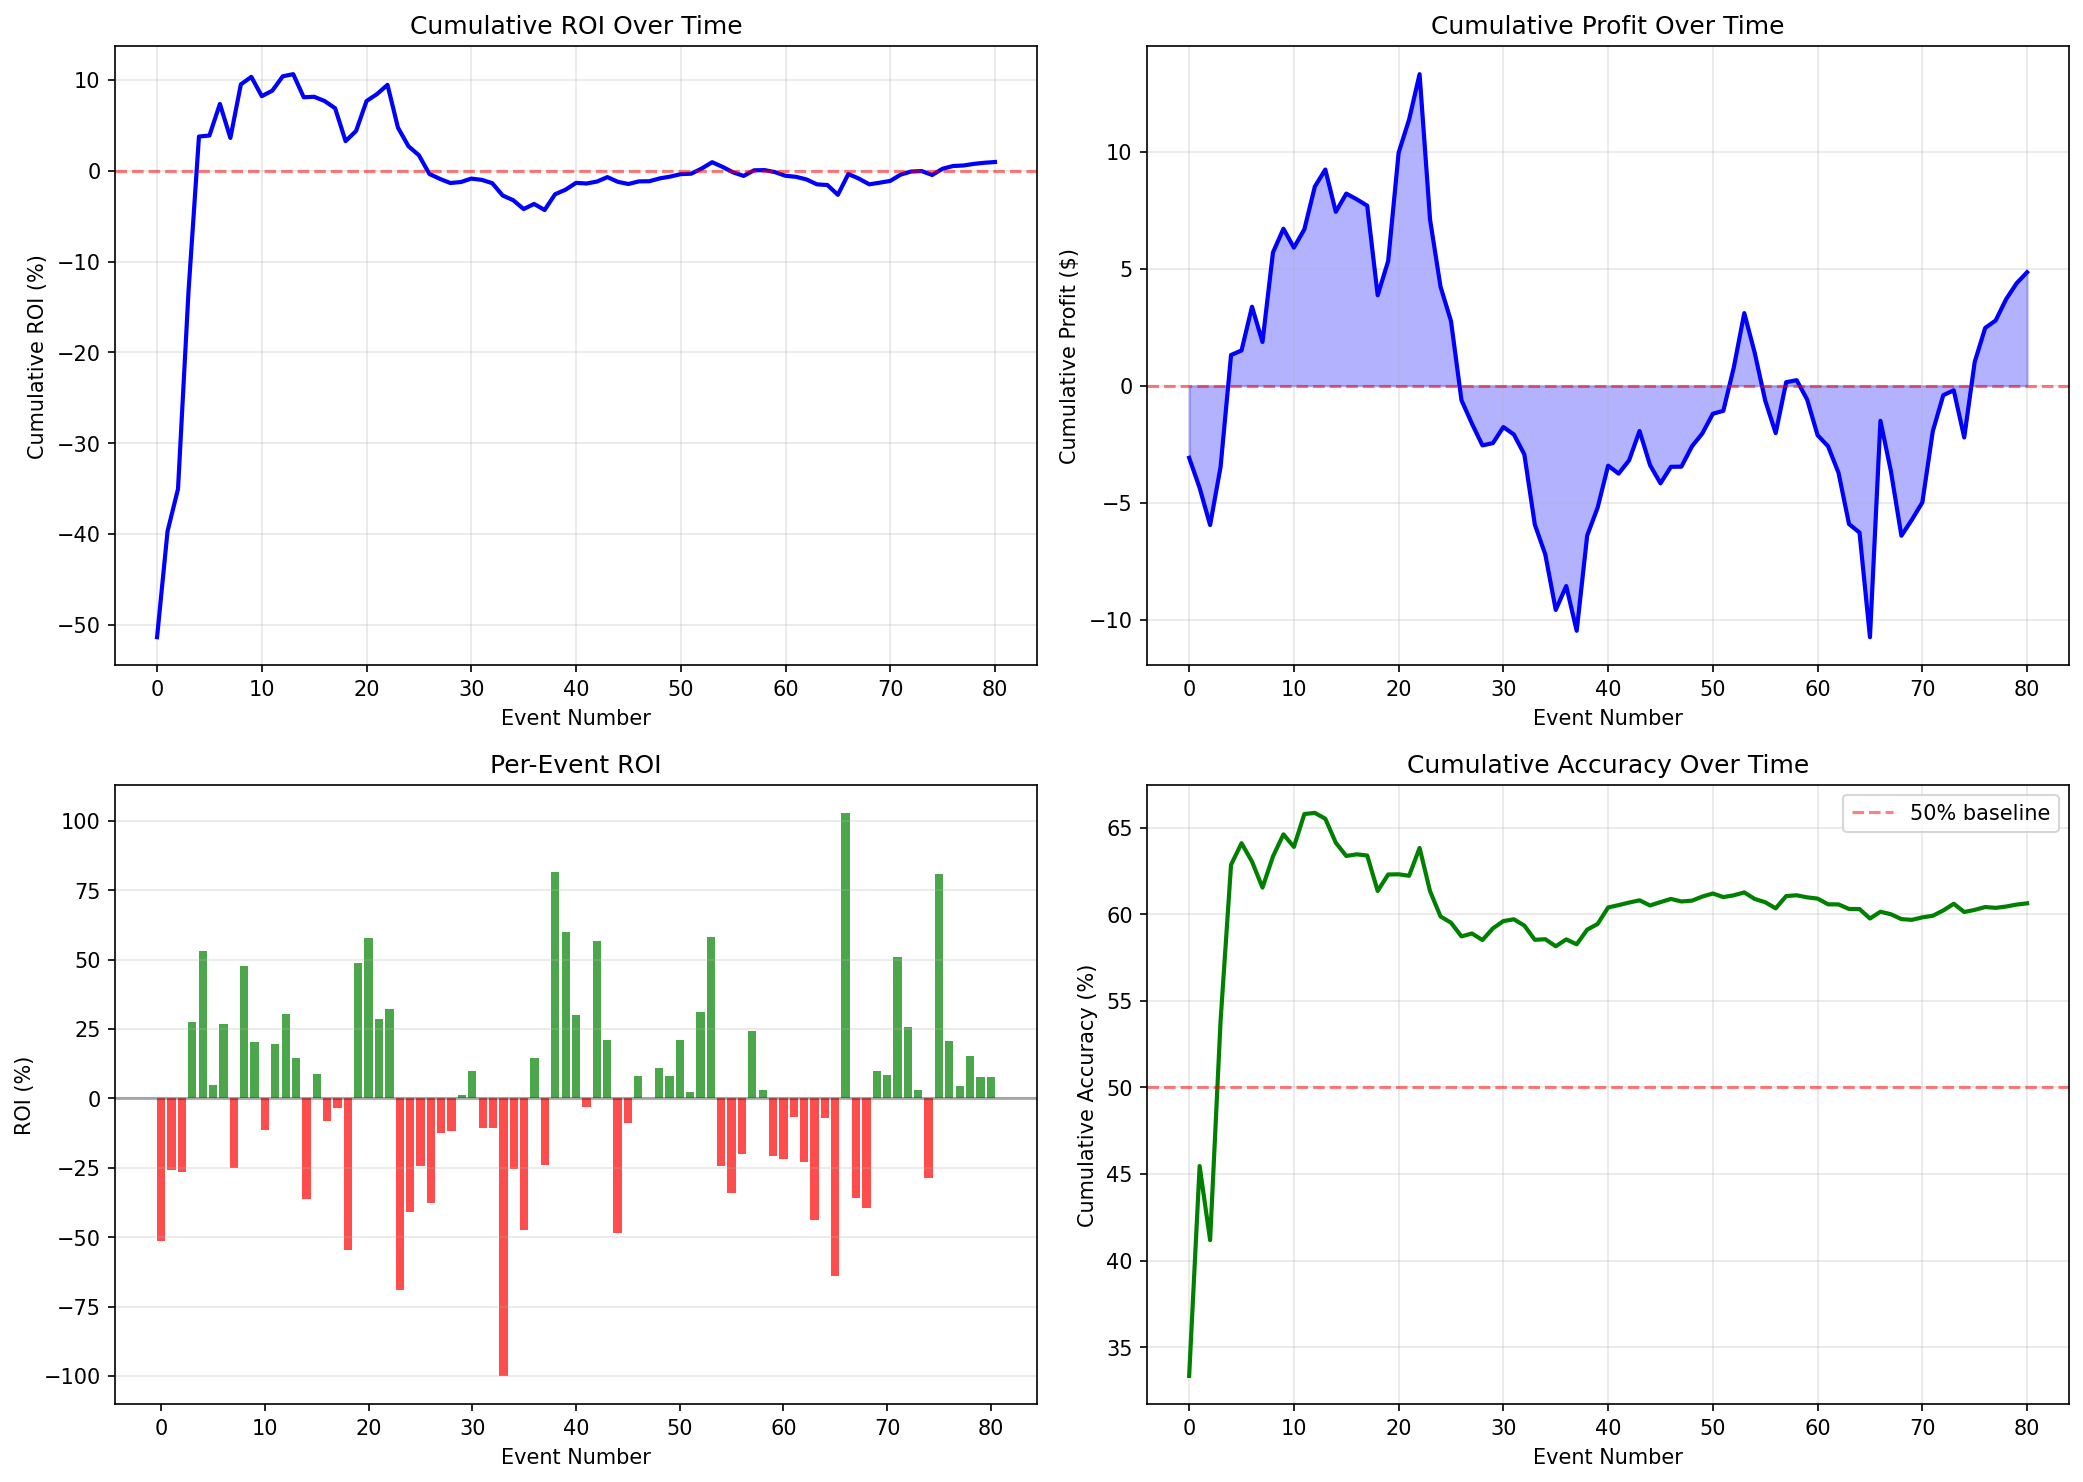
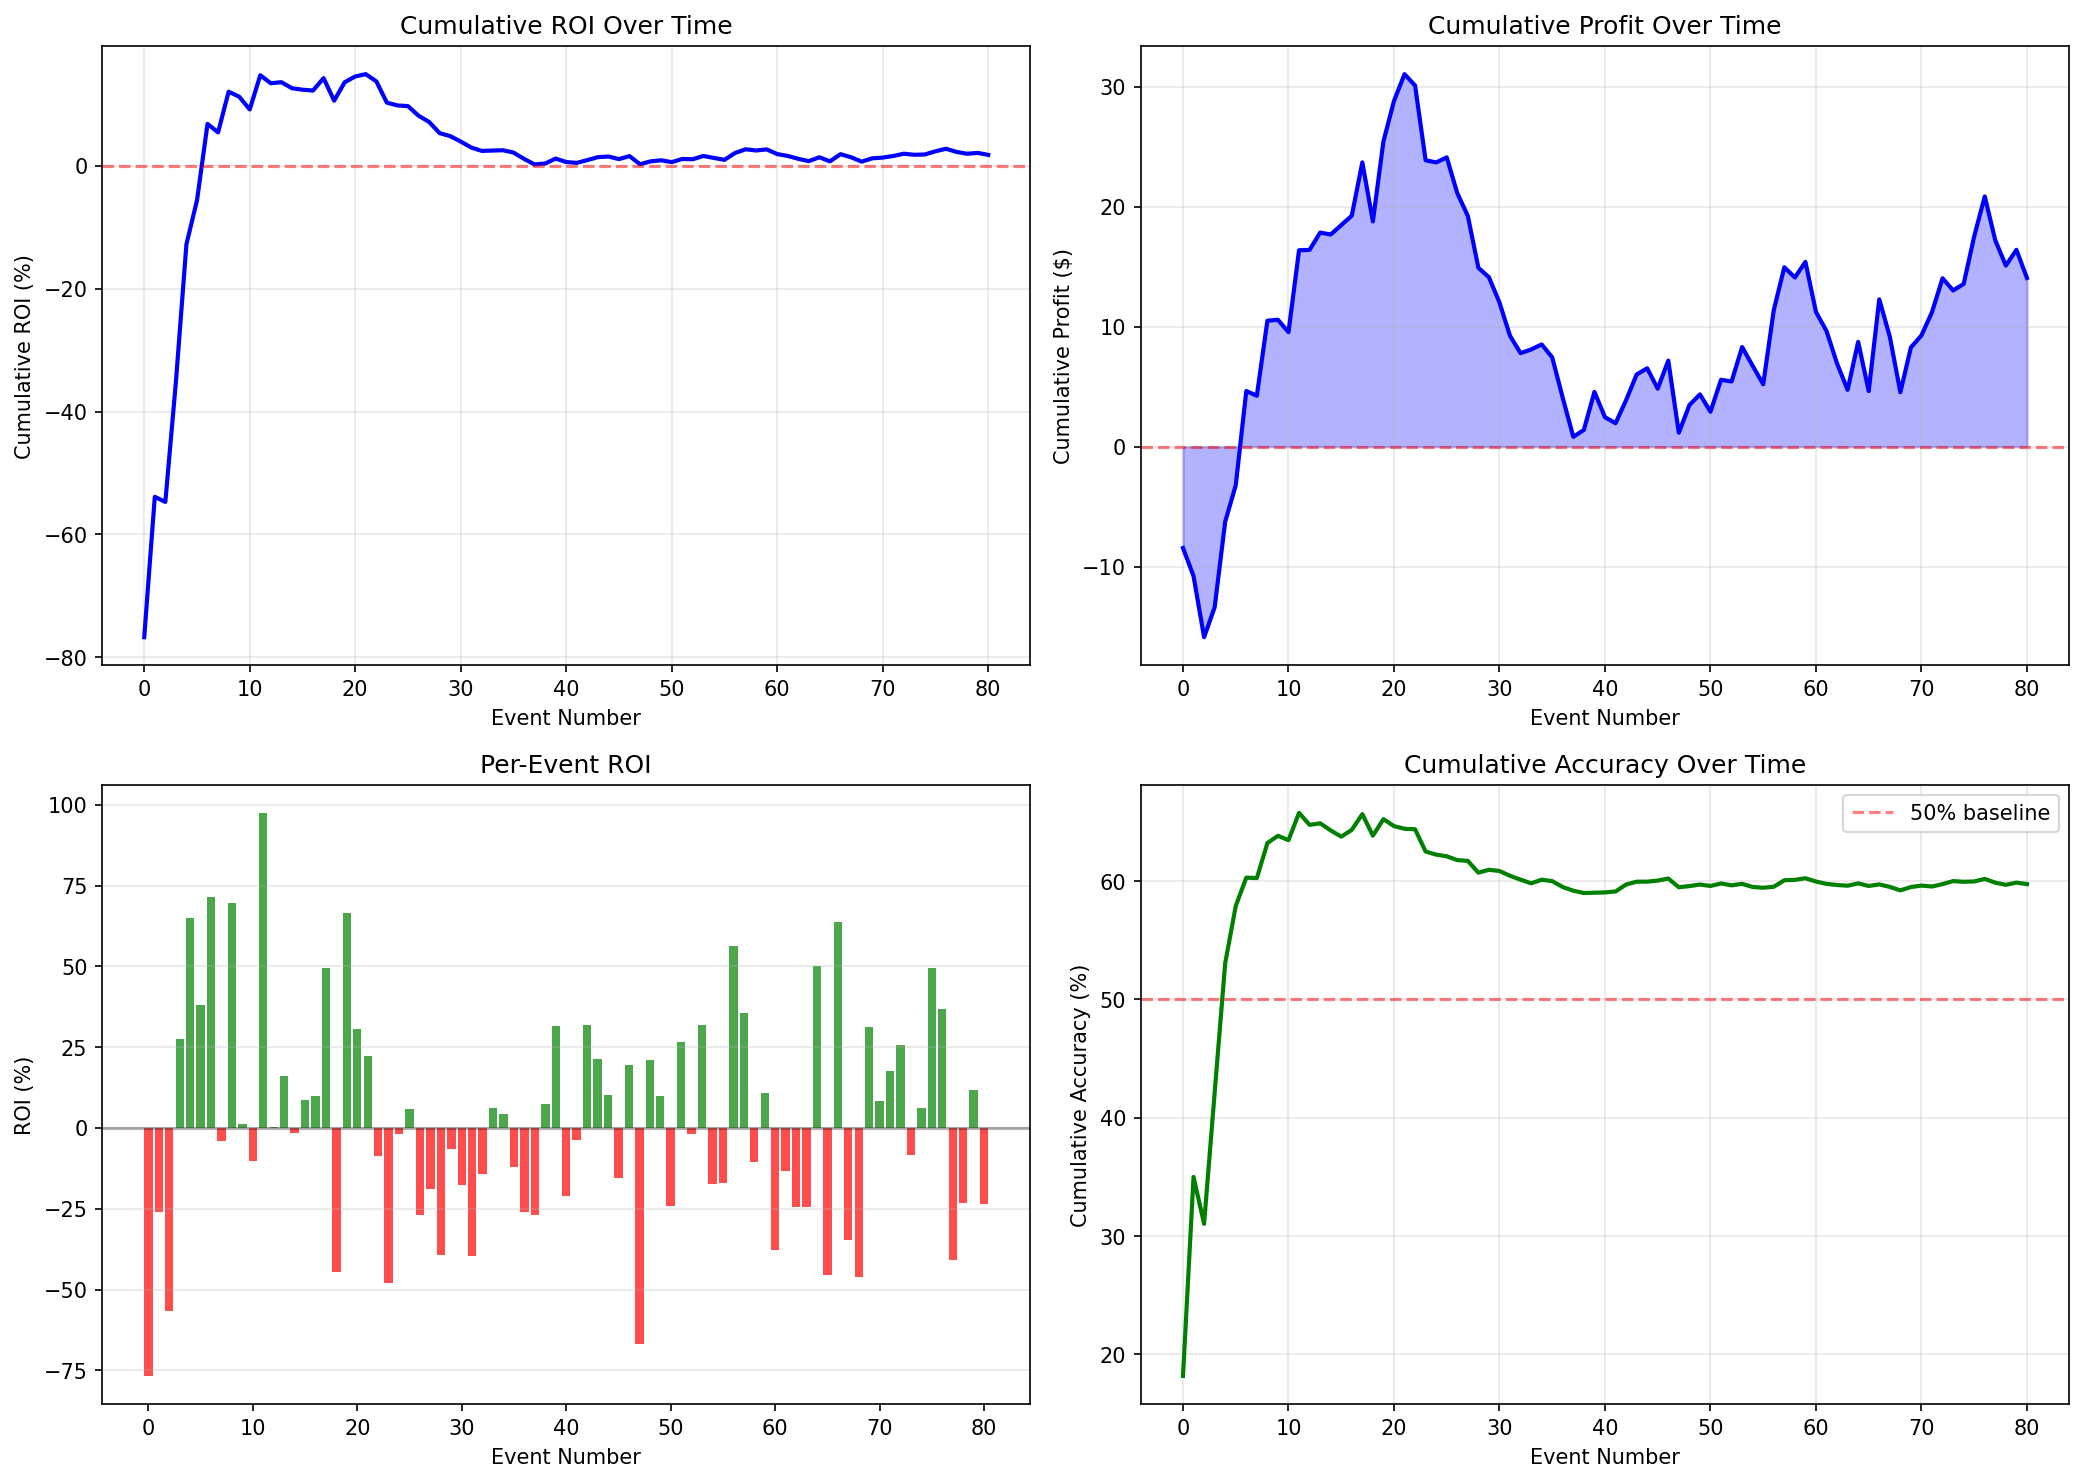
Resolve merge conflict and update Elo parameters
- Resolve merge conflict in full_genetic_with_k_denom_mov.py (add newline)
- Update Elo parameters in main.py with new optimized values
- Update most_recent_elo.csv with new ratings
- Update roi_over_time.png visualization

diff --git a/scripts/main.py b/scripts/main.py
@@ -1513,12 +1513,12 @@ if __name__ == "__main__":
     df = df.sort_values('DATE').reset_index(drop=True)
     # Use custom weights from best GA run
     df = run_basic_elo_with_mov(df, 
-                                k=237.43990534337982,
-                                w_ko=1.055465364523305,
-                                w_sub=1.7461659394019622,
-                                w_udec=1.0084238164539632,
-                                w_sdec=0.6050612748940885,
-                                w_mdec=0.8479369152159737)
+                                k=135.5024295855922,
+                                w_ko=1.304905948911245,
+                                w_sub=2.0,
+                                w_udec=0.8150291233970635,
+                                w_sdec= 0.6277860597403592,
+                                w_mdec=1.0229206801627735)
     print(display_top_n_elos(df, n = 100))
     print(most_recent_elo(df, n = 100))
     print(elo_accuracy(df))

diff --git a/scripts/full_genetic_with_k_denom_mov.py b/scripts/full_genetic_with_k_denom_mov.py
@@ -1659,3 +1659,4 @@ if __name__ == "__main__":
             min_train_bouts=1,
         )
         print("Overall OOS accuracy:", oos_acc)
+
